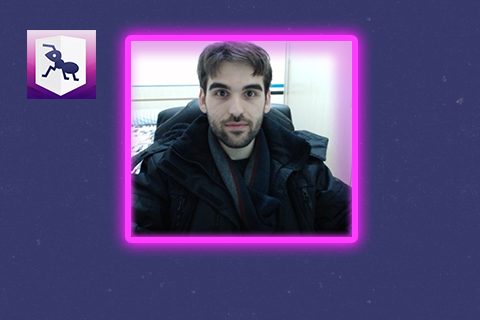
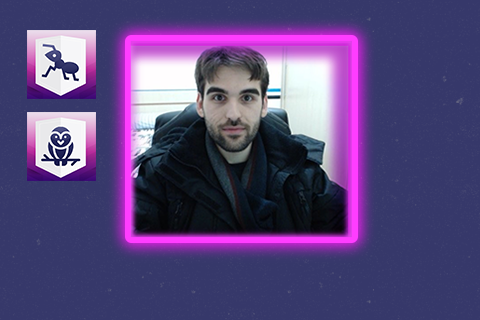
Ajusta formatos de arquivos e imagens

Changed region(s): [[0.25, 0.125, 0.75, 0.75], [0.0312, 0.3438, 0.2188, 0.5625], [0.5312, 0.5938, 0.5938, 0.625]]

diff --git a/_staff_members/marcel_pedroso.md b/_staff_members/marcel_pedroso.md
@@ -2,5 +2,10 @@
 name: Marcel Pedroso
 city: Rio de Janeiro-RJ
 image_path: /images/team/marcel_pedroso.jpg
-twitter: 
+badged_image_path: /images/team/badged_team/marcel_pedroso.jpg
+twitter: marcelpedroso
+website: https://www.icict.fiocruz.br/content/marcel-de-moraes-pedroso
+badges:
+    - 02
+    - 05
 ---

diff --git a/_staff_members/beatriz_milz.md b/_staff_members/beatriz_milz.md
@@ -2,7 +2,13 @@
 name: Beatriz Milz
 city: São Paulo-SP
 image_path: /images/team/beatriz_milz.jpg
+badged_image_path: /images/team/badged_team/beatriz_milz.jpg
 twitter: BeaMilz
 website: beatrizmilz.com
 linkedin: beatrizmilz
+badges:
+  - 01
+  - 02
+  - 03
+  - 04
 ---

diff --git a/_staff_members/ariane_alves.md b/_staff_members/ariane_alves.md
@@ -4,6 +4,7 @@ city: São Paulo-SP
 image_path: /images/team/ariane_alves.png
 badged_image_path: /images/team/badged_team/ariane_alves.png
 twitter: ArianeCml
+badges:
   - 01
   - 02
   - 03

diff --git a/_staff_members/jose_vanz.md b/_staff_members/jose_vanz.md
@@ -5,5 +5,6 @@ image_path: /images/team/jose_vanz.png
 badged_image_path: /images/team/badged_team/jose_vanz.png
 twitter: vanzstuff
 badges:
+  - 01
   - 02
 ---

diff --git a/_staff_members/tais_seibt.md b/_staff_members/tais_seibt.md
@@ -8,5 +8,6 @@ facebook:
 linkedin: taisseibt
 website: afonte.info
 badges:
+  - 01
   - 04
 ---
